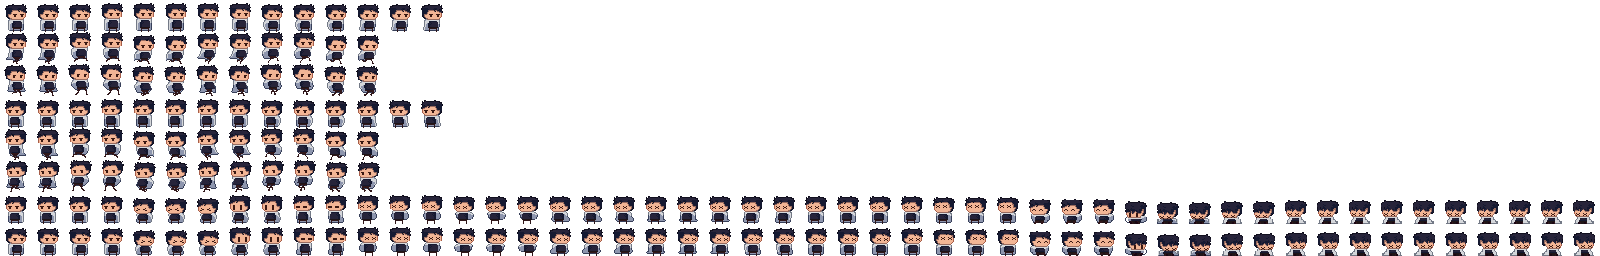
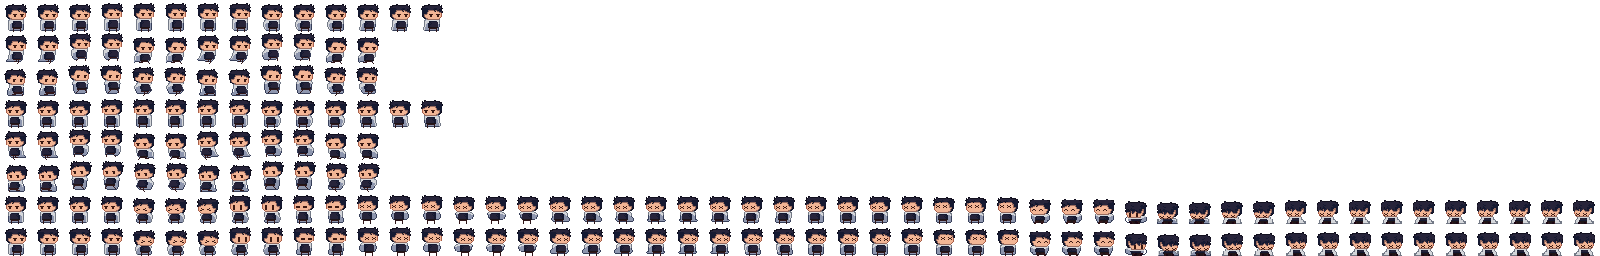
sword animations, attackspeed effects attack animation

Changed region(s): [[0.0, 0.5, 0.25, 0.75], [0.0, 0.125, 0.25, 0.375]]

diff --git a/Chronospace/src/main/java/ma/ac/emi/gamelogic/weapon/Weapon.java b/Chronospace/src/main/java/ma/ac/emi/gamelogic/weapon/Weapon.java
@@ -156,6 +156,45 @@ public class Weapon extends Entity{
 			switching_right.addFrame(sprite);
 		}
 		
+		/*
+		for(Sprite sprite : spriteSheet.getAnimationRow(0, 1)) {
+			idle_left.addFrame(sprite);
+		}
+		for(Sprite sprite : spriteSheet.getAnimationRow(5, 1)) {
+			idle_right.addFrame(sprite);
+		}
+		for(Sprite sprite : spriteSheet.getAnimationRow(1, 17)) {
+			attacking_left.addFrame(sprite);
+		}
+		for(Sprite sprite : spriteSheet.getAnimationRow(6, 17)) {
+			attacking_right.addFrame(sprite);
+		}
+		for(Sprite sprite : spriteSheet.getAnimationRow(2, 0)) {
+			reload_init_left.addFrame(sprite);
+		}
+		for(Sprite sprite : spriteSheet.getAnimationRow(7, 0)) {
+			reload_init_right.addFrame(sprite);
+		}
+		for(Sprite sprite : spriteSheet.getAnimationRow(3, 0)) {
+			reload_left.addFrame(sprite);
+		}
+		for(Sprite sprite : spriteSheet.getAnimationRow(8, 0)) {
+			reload_right.addFrame(sprite);
+		}
+		for(Sprite sprite : spriteSheet.getAnimationRow(4, 11)) {
+			reload_finish_left.addFrame(sprite);
+		}
+		for(Sprite sprite : spriteSheet.getAnimationRow(9, 11)) {
+			reload_finish_right.addFrame(sprite);
+		}
+		
+		for(Sprite sprite : spriteSheet.getAnimationRow(4, 11)) {
+			switching_left.addFrame(sprite);
+		}
+		for(Sprite sprite : spriteSheet.getAnimationRow(9, 11)) {
+			switching_right.addFrame(sprite);
+		}
+		*/
 	}
     
     public void attack() {
@@ -188,6 +227,9 @@ public class Weapon extends Entity{
     }
     
     public void update(double step) {
+    	WeaponItemDefinition def = (WeaponItemDefinition)(weaponItem.getItemDefinition());
+    	stateMachine.getAnimationStateByTitle("Attacking_Right").setPlaySpeed(17*def.getAttackSpeed()/24);
+    	stateMachine.getAnimationStateByTitle("Attacking_Left").setPlaySpeed(17*def.getAttackSpeed()/24);
     	if(isInState("Reload_Init"))
     		if(stateMachine.getCurrentAnimationState().isAnimationDone()) {
     			stateMachine.getCurrentAnimationState().reset();
@@ -202,13 +244,15 @@ public class Weapon extends Entity{
     		if(stateMachine.getCurrentAnimationState().isAnimationDone()) {
     			stateMachine.getCurrentAnimationState().reset();
     			stateMachine.trigger(TRIGGER_STOP);
+
     		}
     			
     	
         setPos(getBearer().getPos());
         setTsla(getTsla() + step);
         
-        if (getAmmo() == 0) {
+        if (getAmmo() == 0 && ((WeaponItemDefinition)weaponItem.getItemDefinition()).getMagazineSize() != 0) {
+        	System.out.println("ammo == 0");
         	if(!isInState("Reload")) {
             	if(!isInState("Idle")) stateMachine.trigger(TRIGGER_STOP);
             	stateMachine.trigger(TRIGGER_RELOAD);
@@ -218,7 +262,8 @@ public class Weapon extends Entity{
             	stateMachine.getCurrentAnimationState().getTitle().equals("Reload_Right")) setTssr(getTssr() + step);
         }
         
-        if (tssr >= ((WeaponItemDefinition)weaponItem.getItemDefinition()).getReloadingTime()) {
+        if (tssr >= ((WeaponItemDefinition)weaponItem.getItemDefinition()).getReloadingTime() && 
+        		((WeaponItemDefinition)weaponItem.getItemDefinition()).getMagazineSize() != 0) {
         	stateMachine.trigger(TRIGGER_STOP);
             setAmmo(((WeaponItemDefinition)weaponItem.getItemDefinition()).getMagazineSize());
             setTssr(0);
@@ -271,7 +316,9 @@ public class Weapon extends Entity{
 	}
 	
 	public void triggerSwitching() {
-		if(!isInState("Idle")) stateMachine.trigger(TRIGGER_STOP);
+		if(!isInState("Idle")) {
+			stateMachine.trigger(TRIGGER_STOP);
+		}
 		stateMachine.trigger(TRIGGER_SWITCH);
 	}
 

diff --git a/Chronospace/src/main/java/ma/ac/emi/fx/AnimationState.java b/Chronospace/src/main/java/ma/ac/emi/fx/AnimationState.java
@@ -15,6 +15,7 @@ public class AnimationState {
 	
 	private transient int currentFrameIndex;
 	private transient double timeTracker;
+	private transient double playSpeed;
 	
 	private Sprite defaultSprite;
 	private boolean doesLoop;
@@ -30,6 +31,7 @@ public class AnimationState {
 		this.timeTracker = 0;
 		this.doesLoop = true;
 		this.defaultSprite = defaultSprite;
+		this.playSpeed = 1;
 	}
 	
 	public void addFrame(Sprite sprite, double frameTime) {
@@ -53,7 +55,7 @@ public class AnimationState {
 			
 			if (!isLastFrame || doesLoop) {
 				currentFrameIndex = (currentFrameIndex + 1) % frames.size();
-				timeTracker = frames.get(currentFrameIndex).getFrameTime();
+				if(playSpeed > 0) timeTracker = frames.get(currentFrameIndex).getFrameTime()/playSpeed;
 			}
 		}
 	}

diff --git a/Chronospace/src/main/java/ma/ac/emi/gamelogic/wave/WaveManager.java b/Chronospace/src/main/java/ma/ac/emi/gamelogic/wave/WaveManager.java
@@ -37,7 +37,7 @@ public class WaveManager {
         this.waves = new ArrayList<>();
         this.currentWaveNumber = 0;
         this.state = WaveState.WAITING;
-        this.waveDelay = 3;
+        this.waveDelay = 30;
         this.waveTimer = 0;
         
         this.context = context;
